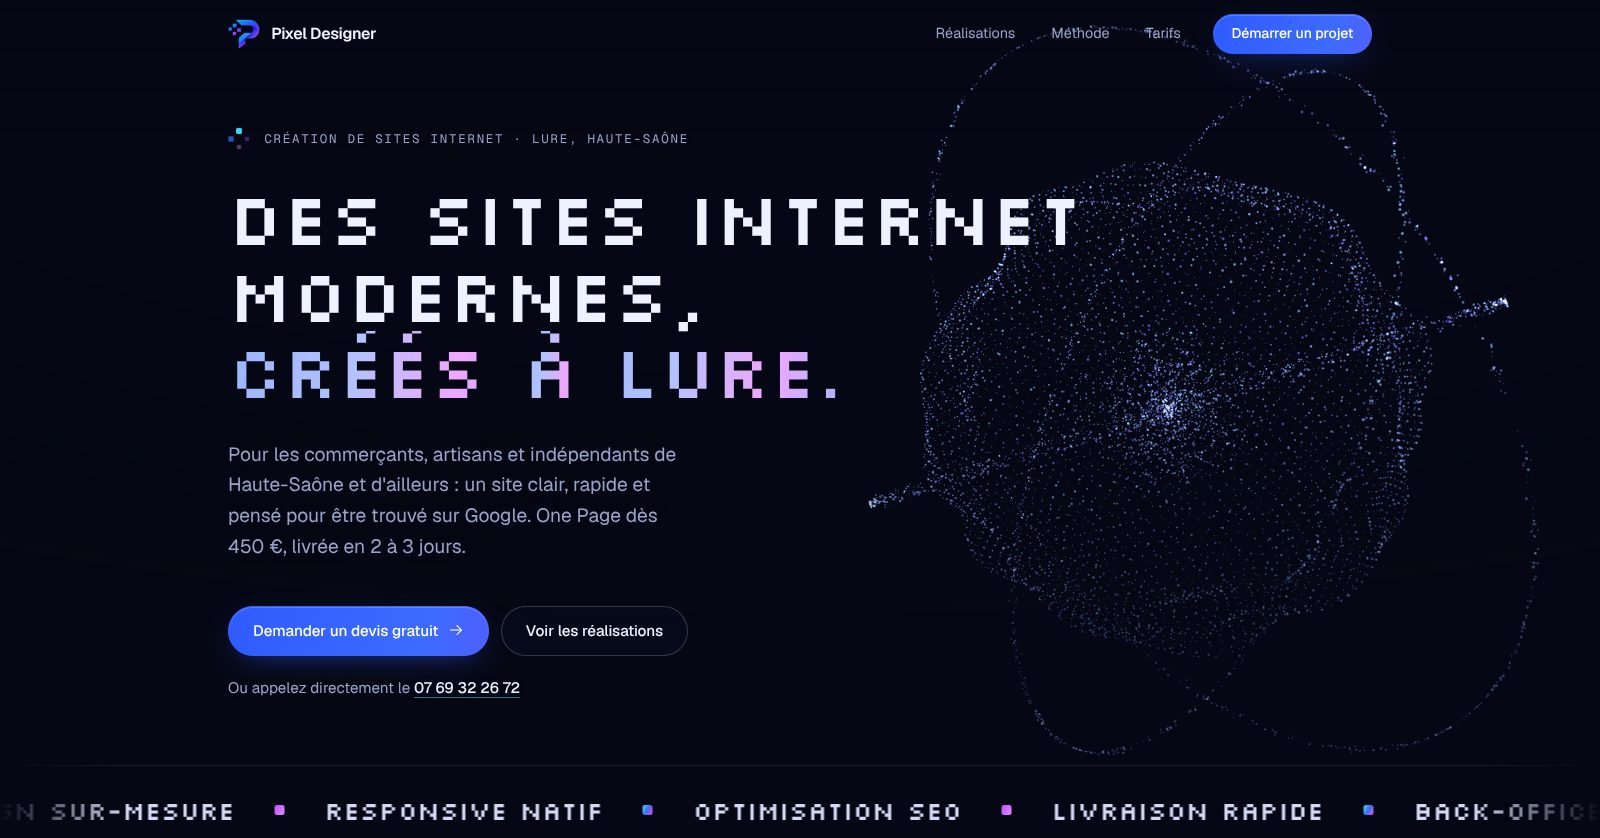
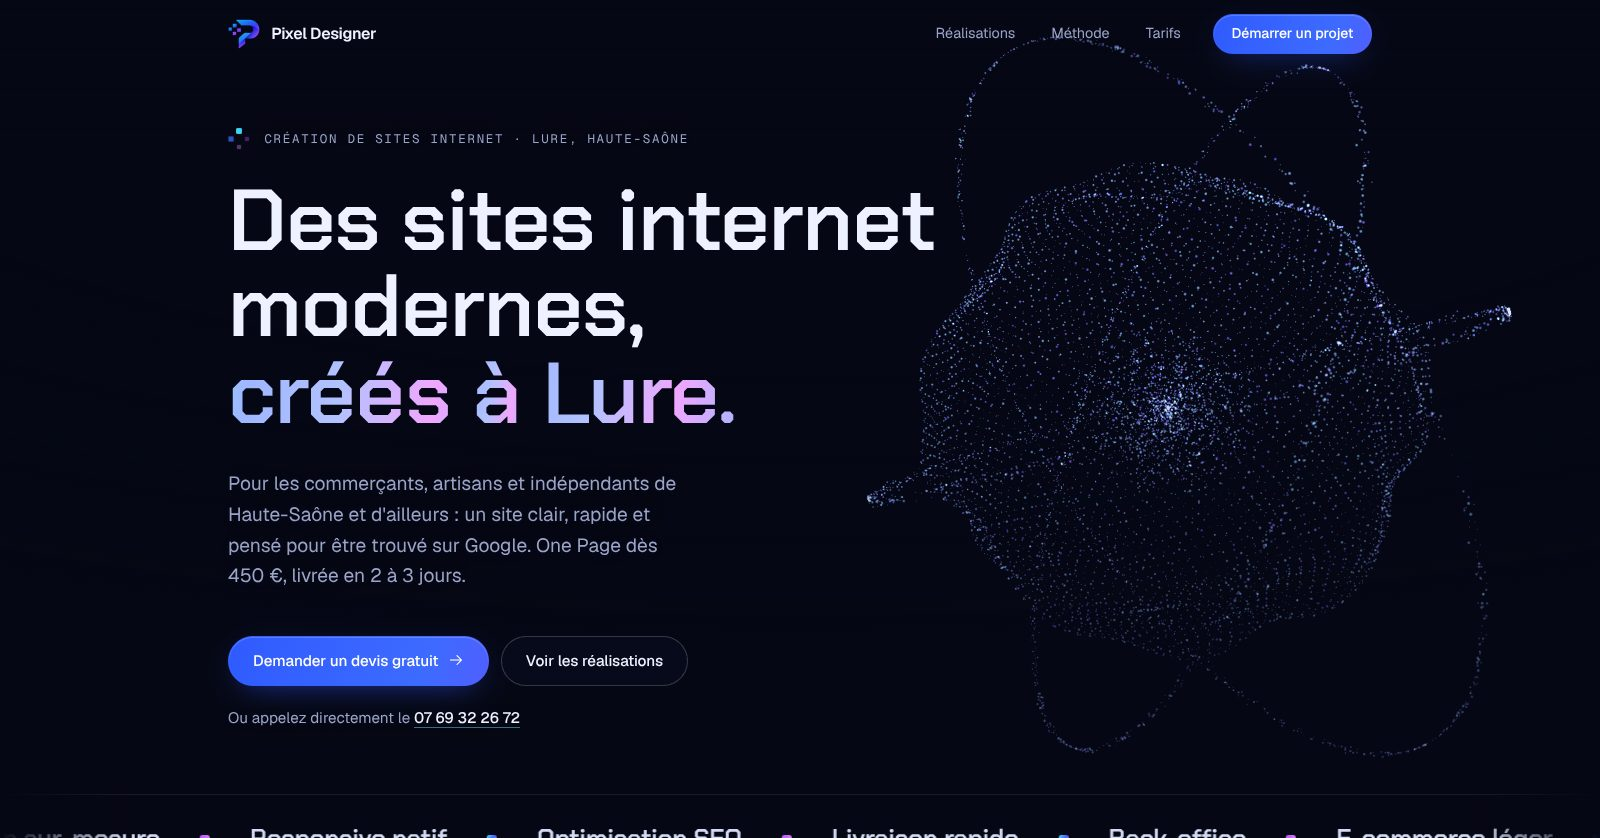
Titres en Chakra Petch : la police pixel est réservée aux petits accents
La police pixel rendait les titres difficiles à lire. Les titres, prix et noms de
projets passent en Chakra Petch 600 (auto-hébergée, OFL) ; Silkscreen ne reste que
sur le compteur du carrousel, les numéros de la section Méthode et la signature du
pied de page. Capture du site Pixel Designer regénérée.

Claude-Session: https://claude.ai/code/session_015nWsnpehyLtP7Hb4HEAxec

diff --git a/assets/css/style.css b/assets/css/style.css
@@ -1,7 +1,8 @@
 /* ==========================================================================
    Pixel Designer v4 « Nuit numérique »
    Bleu nuit profond, particules, verre et effets glitch (décalage RGB, pixels).
-   Titres en police pixel (Silkscreen), texte en Geist, libellés en Geist Mono.
+   Titres en Chakra Petch (anguleuse, lisible), texte en Geist, libellés en Geist Mono,
+   police pixel (Silkscreen) réservée aux petits accents.
    Un seul bleu électrique pour les actions ; cyan et rose réservés aux effets.
    Rayons : boutons, puces et badges en pilule, cartes 16px, visuels 12px, champs 10px.
    Couches (z-index) : fond 3D 0, voile 0, contenu 1, nav 50, menu mobile 60, lien d'évitement 100.
@@ -47,7 +48,9 @@
 
     --font: "Geist", ui-sans-serif, system-ui, -apple-system, "Segoe UI", sans-serif;
     --mono: "Geist Mono", ui-monospace, "SFMono-Regular", Menlo, monospace;
-    --display: "Silkscreen", "Geist Mono", ui-monospace, monospace;
+    --display: "Chakra Petch", "Geist", ui-sans-serif, system-ui, sans-serif;
+    /* Police pixel : seulement pour de petits accents (numéros, compteur, signature du pied de page) */
+    --pixel: "Silkscreen", "Geist Mono", ui-monospace, monospace;
 
     --gutter: clamp(1.25rem, 5vw, 3rem);
     --section-y: clamp(6.5rem, 14vw, 11rem);
@@ -227,10 +230,10 @@ main,
 
 .h2 {
     font-family: var(--display);
-    font-size: clamp(1.9rem, 4.6vw, 3.4rem);
-    font-weight: 400;
-    line-height: 1.08;
-    letter-spacing: 0;
+    font-size: clamp(2.1rem, 5vw, 3.8rem);
+    font-weight: 600;
+    line-height: 1.04;
+    letter-spacing: -0.01em;
 }
 
 /* Petit repère numéroté au-dessus des titres de section */
@@ -760,8 +763,8 @@ main,
 .menu-links a {
     font-family: var(--display);
     font-size: clamp(1.75rem, 8vw, 2.4rem);
-    font-weight: 400;
-    letter-spacing: 0;
+    font-weight: 600;
+    letter-spacing: -0.01em;
     line-height: 1.25;
     opacity: 0;
     transform: translateY(20px);
@@ -813,10 +816,10 @@ body.menu-open .nav-progress {
 .hero-title {
     max-width: 12em;
     font-family: var(--display);
-    font-size: clamp(2.1rem, 6.2vw, 4.6rem);
-    font-weight: 400;
-    line-height: 1.04;
-    letter-spacing: 0;
+    font-size: clamp(2.5rem, 6.8vw, 5.4rem);
+    font-weight: 600;
+    line-height: 1;
+    letter-spacing: -0.01em;
 }
 
 .hero-title .line {
@@ -919,9 +922,9 @@ html.js [data-split].is-in .word > span {
 .marquee span {
     font-family: var(--display);
     font-size: clamp(1.15rem, 2vw, 1.6rem);
-    font-weight: 400;
+    font-weight: 600;
     line-height: 1.6;
-    letter-spacing: 0;
+    letter-spacing: -0.01em;
     color: #d3d9f2;
     white-space: nowrap;
 }
@@ -984,10 +987,10 @@ html.js [data-split].is-in .word > span {
 
 .work-title {
     font-family: var(--display);
-    font-size: clamp(1.8rem, 3.4vw, 2.8rem);
-    font-weight: 400;
+    font-size: clamp(2rem, 3.8vw, 3.2rem);
+    font-weight: 600;
     line-height: 1.04;
-    letter-spacing: 0;
+    letter-spacing: -0.01em;
 }
 
 .work-info .muted {
@@ -1239,7 +1242,7 @@ html.js [data-split].is-in .word > span {
     position: absolute;
     top: calc(var(--nav-h) + 1rem);
     right: var(--gutter);
-    font-family: var(--display);
+    font-family: var(--pixel);
     font-size: 1rem;
     letter-spacing: 0.06em;
 }
@@ -1406,7 +1409,7 @@ html.js .statement .w.on {
     content: counter(step, decimal-leading-zero);
     grid-row: 1 / 3;
     min-width: 3.2rem;
-    font-family: var(--display);
+    font-family: var(--pixel);
     font-size: clamp(1.6rem, 3vw, 2.2rem);
     line-height: 1;
     color: transparent;
@@ -1547,8 +1550,8 @@ html.js .statement .w.on {
     gap: 0.1rem;
     font-family: var(--display);
     font-size: clamp(2rem, 3vw, 2.5rem);
-    font-weight: 400;
-    letter-spacing: 0;
+    font-weight: 600;
+    letter-spacing: -0.01em;
     line-height: 1;
     white-space: nowrap;
     font-variant-numeric: tabular-nums;
@@ -1683,9 +1686,9 @@ html.js .statement .w.on {
 
 .options-block > .h3 {
     font-family: var(--display);
-    font-weight: 400;
+    font-weight: 600;
     font-size: clamp(1.4rem, 2.4vw, 1.9rem);
-    letter-spacing: 0;
+    letter-spacing: -0.01em;
     text-shadow: var(--halo);
 }
 
@@ -1745,8 +1748,8 @@ html.js .statement .w.on {
     color: var(--text);
     font-family: var(--display);
     font-size: 1.8rem;
-    font-weight: 400;
-    letter-spacing: 0;
+    font-weight: 600;
+    letter-spacing: -0.01em;
     line-height: 1;
     font-variant-numeric: tabular-nums;
 }
@@ -1845,8 +1848,8 @@ html.js .statement .w.on {
     height: 46px;
     font-family: var(--display);
     font-size: clamp(2rem, 3vw, 2.5rem);
-    font-weight: 400;
-    letter-spacing: 0;
+    font-weight: 600;
+    letter-spacing: -0.01em;
     line-height: 1;
     font-variant-numeric: tabular-nums;
 }
@@ -2248,7 +2251,7 @@ textarea.input {
 
 .footer-word {
     margin-top: clamp(3rem, 7vw, 5rem);
-    font-family: var(--display);
+    font-family: var(--pixel);
     font-size: min(7rem, 7.6vw);
     font-weight: 400;
     line-height: 0.95;

diff --git a/assets/css/fonts.css b/assets/css/fonts.css
@@ -1,5 +1,6 @@
 /* Polices auto-hébergées (Geist et Geist Mono, licence OFL 1.1, voir assets/fonts/OFL.txt ;
-   Silkscreen, police pixel des titres, licence OFL 1.1, voir assets/fonts/OFL-Silkscreen.txt).
+   Chakra Petch 600, police des titres, licence OFL 1.1, voir assets/fonts/OFL-ChakraPetch.txt ;
+   Silkscreen, police pixel des petits accents, licence OFL 1.1, voir assets/fonts/OFL-Silkscreen.txt).
    Sous-ensembles latin et latin-ext uniquement. */
 
 /* Geist - latin-ext */
@@ -59,5 +60,25 @@
     font-weight: 400;
     font-display: swap;
     src: url("../fonts/silkscreen-latin.woff2") format("woff2");
+    unicode-range: U+0000-00FF, U+0131, U+0152-0153, U+02BB-02BC, U+02C6, U+02DA, U+02DC, U+0304, U+0308, U+0329, U+2000-206F, U+20AC, U+2122, U+2191, U+2193, U+2212, U+2215, U+FEFF, U+FFFD;
+}
+
+/* Chakra Petch 600 - latin-ext */
+@font-face {
+    font-family: "Chakra Petch";
+    font-style: normal;
+    font-weight: 600;
+    font-display: swap;
+    src: url("../fonts/chakra-petch-600-latin-ext.woff2") format("woff2");
+    unicode-range: U+0100-02BA, U+02BD-02C5, U+02C7-02CC, U+02CE-02D7, U+02DD-02FF, U+0304, U+0308, U+0329, U+1D00-1DBF, U+1E00-1E9F, U+1EF2-1EFF, U+2020, U+20A0-20AB, U+20AD-20C4, U+2113, U+2C60-2C7F, U+A720-A7FF;
+}
+
+/* Chakra Petch 600 - latin */
+@font-face {
+    font-family: "Chakra Petch";
+    font-style: normal;
+    font-weight: 600;
+    font-display: swap;
+    src: url("../fonts/chakra-petch-600-latin.woff2") format("woff2");
     unicode-range: U+0000-00FF, U+0131, U+0152-0153, U+02BB-02BC, U+02C6, U+02DA, U+02DC, U+0304, U+0308, U+0329, U+2000-206F, U+20AC, U+2122, U+2191, U+2193, U+2212, U+2215, U+FEFF, U+FFFD;
 }

diff --git a/index.html b/index.html
@@ -23,7 +23,7 @@
     <link rel="apple-touch-icon" href="apple-touch-icon.png">
 
     <link rel="preload" href="assets/fonts/geist-latin.woff2" as="font" type="font/woff2" crossorigin>
-    <link rel="preload" href="assets/fonts/silkscreen-latin.woff2" as="font" type="font/woff2" crossorigin>
+    <link rel="preload" href="assets/fonts/chakra-petch-600-latin.woff2" as="font" type="font/woff2" crossorigin>
     <link rel="stylesheet" href="assets/css/fonts.css">
     <link rel="stylesheet" href="assets/css/phosphor.css">
     <link rel="stylesheet" href="assets/css/style.css">
